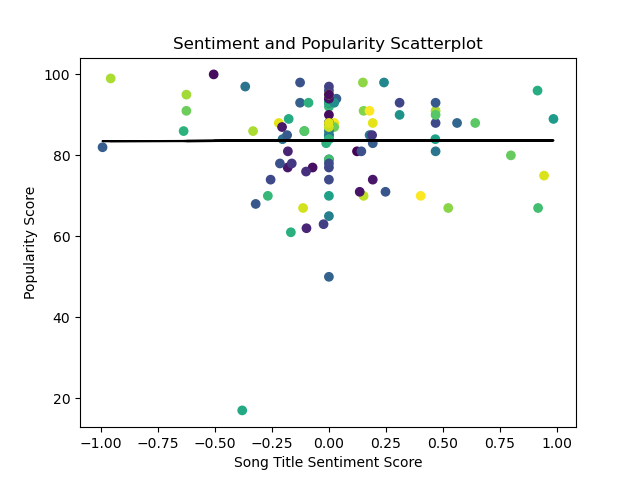
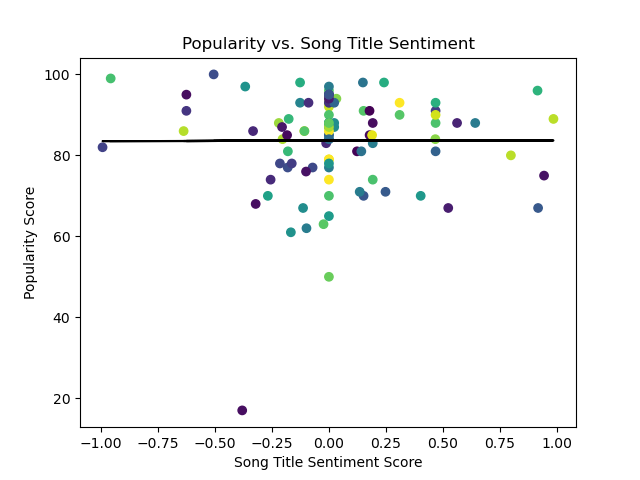
fix visuals

diff --git a/visualizations.py b/visualizations.py
@@ -32,6 +32,7 @@ def avg_pop():
     for item in data.items():
         sentiment.append(item[0])
         popularity.append(item[1])
+    plt.figure()
     bars = plt.bar(sentiment, popularity)
     bars[0].set_color('lightcoral')
     bars[1].set_color('lemonchiffon')
@@ -40,7 +41,6 @@ def avg_pop():
     plt.xlabel('Sentiment')
     plt.ylabel('Average Popularity Score')
     plt.savefig('avg_pop.png')
-    plt.show()
     
 
 def category_freq():
@@ -51,12 +51,12 @@ def category_freq():
     sizes = []
     for item in data.items():
         sizes.append(int(item[1]))
+    plt.figure()
     plt.pie(sizes, explode=explode, labels=labels, colors=colors,
     autopct='%1.1f%%', shadow=True, startangle=140)
     plt.axis('equal')
     plt.title('Billboard Top 100 Hits Title Sentiments', pad=20)
     plt.savefig('category_freq.png')
-    plt.show()
 
 def artist_freq():
     data = read_data_from_file('artist_freq.json')
@@ -65,6 +65,7 @@ def artist_freq():
     for item in data.items():
         artists.append(item[0])
         frequency.append(item[1])
+    plt.figure()
     bars = plt.bar(artists, frequency)
     bars[0].set_color('lightcoral')
     bars[1].set_color('lemonchiffon')
@@ -73,7 +74,6 @@ def artist_freq():
     plt.xlabel('Artist Name')
     plt.ylabel('Number of Songs')
     plt.savefig('artist_freq.png')
-    plt.show()
 
 
 def popularity_and_sentiment():
@@ -81,19 +81,18 @@ def popularity_and_sentiment():
     x = []
     y = []
     colors = colors = np.random.rand(len(data))
-    print(colors)
     for item in data:
         x.append(item['sentiment'])
         y.append(item['popularity'])
+    plt.figure()
     plt.scatter(x, y, c=colors)
-    plt.title('Sentiment and Popularity Scatterplot')
+    plt.title('Popularity vs. Song Title Sentiment')
     plt.xlabel('Song Title Sentiment Score')
     plt.ylabel('Popularity Score')
     z = np.polyfit(x, y, 1)
     p = np.poly1d(z)
     plt.plot(x, p(x), color='black')
     plt.savefig('popularity_and_sentiment.png')
-    plt.show()
 
 
 def main():
